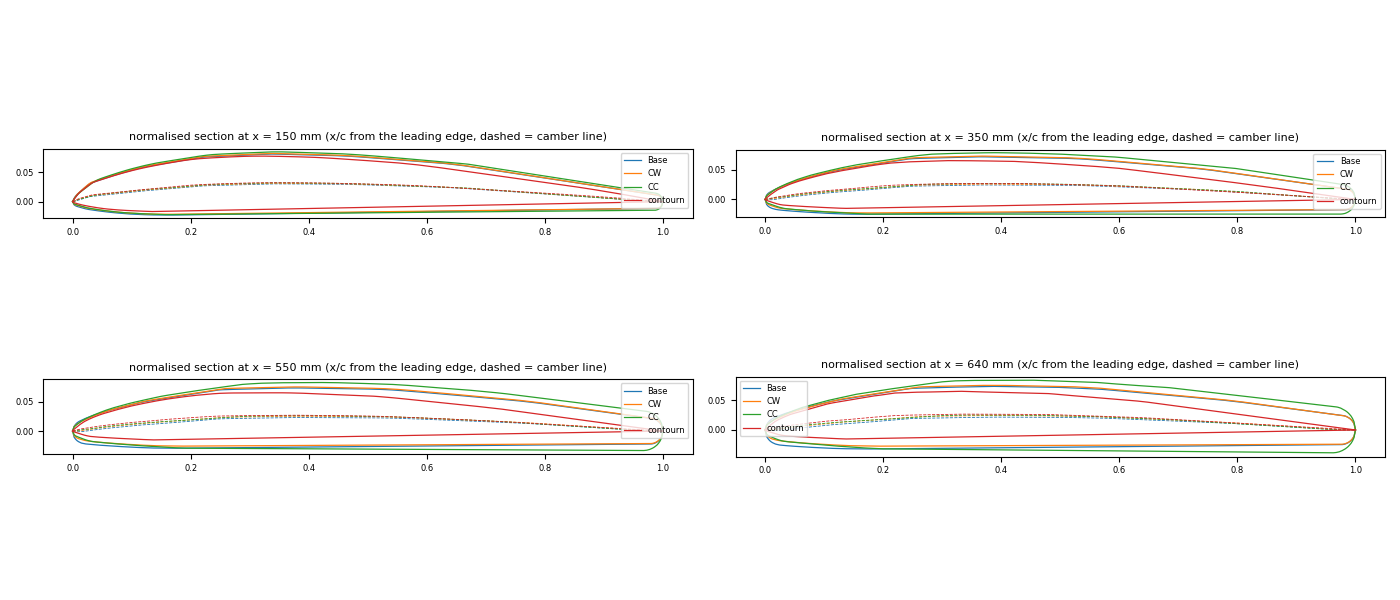
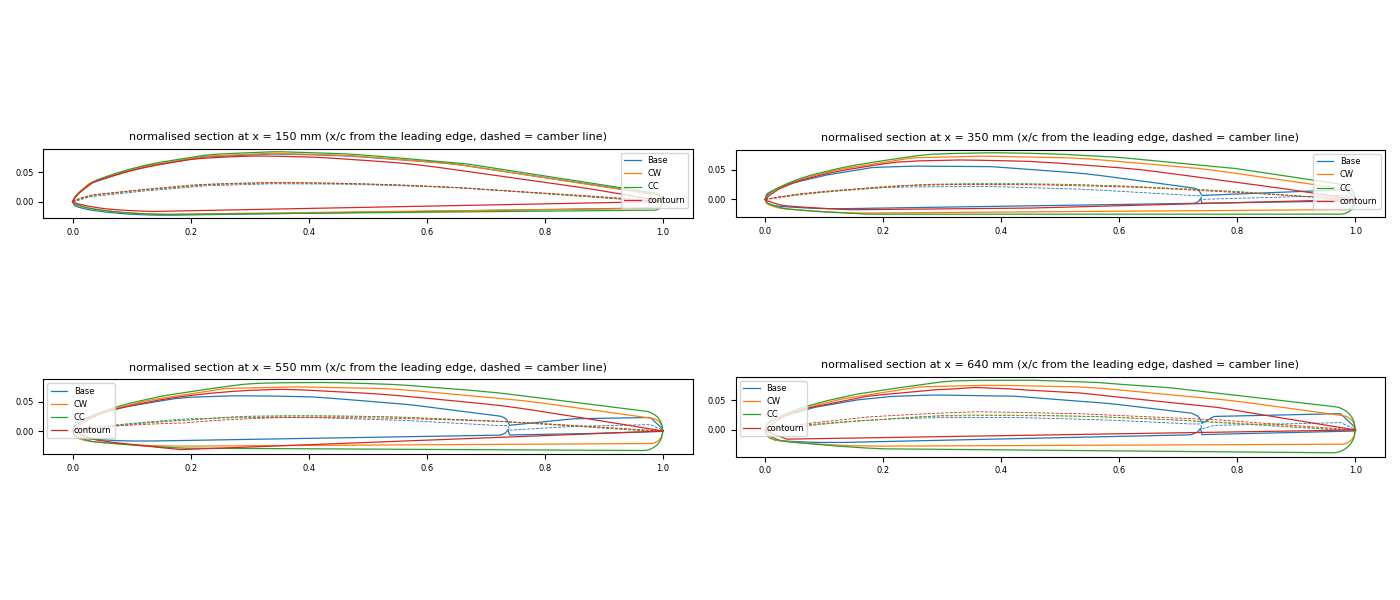
Se añadieron analisis sobre los STP, estan mal, hay que arreglar el aleron

diff --git a/analysis/scripts/stl_geometry.py b/analysis/scripts/stl_geometry.py
@@ -166,6 +166,21 @@ def section_props(loop):
     }
 
 
+def elevon(m, step=2.0):
+    # elevons are 5 mm flat plates aft of the wing TE; a slice shows them as a separate thin loop
+    xs = np.arange(270, m["P"][:, 0].max(), step)
+    chord = np.zeros(len(xs))
+    for i, x in enumerate(xs):
+        loops = [L for L in slice_loops(m["P"], m["F"], 0, x + 0.0137)
+                 if len(L) > 8 and np.ptp(L[:, 1]) > 20 and abs(np.ptp(L[:, 2]) - 5) < 0.3]
+        chord[i] = max((np.ptp(L[:, 1]) for L in loops), default=0)
+    on = xs[chord > 0]
+    if not len(on):
+        return None
+    return {"x0": on.min(), "x1": on.max(), "c_max": chord.max(), "c_min": chord[chord > 0].min(),
+            "S_pair": 2 * chord.sum() * step}
+
+
 def raster(P, F, ia, ib):
     a, b = P[:, ia], P[:, ib]
     a0, b0 = a.min(), b.min()
@@ -341,6 +356,14 @@ def main():
         f = lambda v: f"{np.round(v[0]) + 0.0:.0f} / {v[1]:.0f}"
         print(f"| {MODELS[name]} | {f(p['root'])} | {f(p['kink'])} | {f(p['tip'])} | "
               f"{p['le_sweep_in']:.1f} / {p['le_sweep_out']:.1f} | {p['te_sweep_in']:.1f} / {p['te_sweep_out']:.1f} |")
+
+    print("\n## Elevons (separate 5 mm loop aft of the wing TE; '-' = fused into the wing loop, not separable)\n")
+    print("| Model | Span x from / to [mm] | Chord max / min [mm] | Area, both [dm²] |")
+    print("|---|---|---|---|")
+    for name, m in meshes.items():
+        e = elevon(m)
+        print(f"| {MODELS[name]} | " + ("- | - | - |" if e is None else
+              f"{e['x0']:.0f} / {e['x1']:.0f} | {e['c_max']:.1f} / {e['c_min']:.1f} | {e['S_pair'] / 1e4:.2f} |"))
 
     print("\n## Sections (x = distance from the centreline)\n")
     print("| Model | x [mm] | Chord [mm] | Incidence [deg] | t/c [%] @ x/c | Camber [%] @ x/c | Camber slope near TE | TE thickness [mm] | Points |")

diff --git a/analysis/AERO_REPORT.md b/analysis/AERO_REPORT.md
@@ -2,9 +2,9 @@
 
 | | |
 |---|---|
-| Date | 2026-10-13 |
-| Status | Geometry of the 9 STL variants inspected. **No aerodynamic test has been run yet.** |
-| Next action | Step 0 (requirements) and Step 1 (CAD fixes and exports), done by the designer |
+| Date | 2026-10-13, updated 2026-10-15 |
+| Status | Elevons added and STL + STEP files re-exported (commit `1deeefd`). New geometry checked on 2026-10-15 (§4.6). **No aerodynamic test has been run yet.** |
+| Next action | Designer: finish Step 1. Fix the elevon joint so the STEP solids are valid, re-export the `contourn` and Base STLs, decide on the RT+CW winglet, and give the motor and mass data. Claude: then Step 3. |
 | Re-run the measurements | `python3 analysis/scripts/stl_geometry.py` |
 
 ---
@@ -13,7 +13,9 @@
 
 - **Goal:** compare the aerodynamics of the 9 Inventor models of the Berkirk 3 flying wing, pick one, keep designing it and build it.
 - **The STL files are clean:** binary, in mm, one closed watertight body each, correct normals. They can go straight into OpenFOAM's mesher (snappyHexMesh). The low-order aero tools need STEP files or airfoil + planform data instead (Step 1).
-- **All 9 models share the same planform:** span 1.336 m (1.346 m for ConstantCorners), projected area ≈ 0.32 m², mean aerodynamic chord (MAC) ≈ 276 mm, aspect ratio ≈ 5.6. These values are **without elevons** (see below).
+- **All 9 models share the same planform:**
+  - With elevons (2026-10-15): span 1.336 m (1.346 m for ConstantCorners), projected area ≈ 0.358–0.365 m², mean aerodynamic chord (MAC) ≈ 289–292 mm, aspect ratio ≈ 5.0.
+  - The first inspection, without elevons, gave ≈ 0.32 m², MAC ≈ 276 mm and AR ≈ 5.6.
 - **The variants differ in details that need 3D/viscous analysis:**
   - edge rounding and thickness (ConstantCorners)
   - size of the motor cowl's flat rear face (ReducedTail)
@@ -21,10 +23,13 @@
   - a different, thinner airfoil (contourn)
 
   Vortex-lattice and panel methods will barely separate the variants. Use them for stability and trim, and rank the variants with CFD and physical tests.
-- **Fix these before any test:**
-  1. The **elevons appear to be missing** from all models. The measured area is ~4.5–5 dm² below the original's 36.54 dm², which is about the area of the two W16 elevons.
-  2. ReducedTail+ChangedWings has **87 mm winglets**; all the other models have 95 mm.
-  3. The models **don't share a common reference point** (datum): the bottom is at z = 0, 10 or 12 mm and the nose at y = 323.4–326.0 mm.
+- **Fix these before any test** (status after the 2026-10-15 re-export, details in §4.6):
+  1. ~~The elevons are missing from all models.~~ **Done.** All 9 models now have 5 mm flat-plate elevons fixed at 0°. Wing area is now 35.8–36.5 dm², against the original's 36.54 dm².
+  2. ReducedTail+ChangedWings has **87 mm winglets**; all the other models have 95 mm. **Still open.**
+  3. **Common datum:**
+     - **Mostly done in the STEP files:** root leading edge at y ≈ 199–201 mm, bottom at z = 0.
+     - **Not done in 8 of the 9 STLs** (all except Base).
+  4. **New:** the 8 Siloute STEP solids are **invalid** where the elevon meets the rounded trailing edge, and the `contourn` STL is badly tessellated. Both need fixing before Flow5/CFD.
 - **Biggest aerodynamic risk: pitch trim.**
   - No airfoil has reflex, and washout is ≤ 1°.
   - The original Berkik 3 trims with a fixed elevon reflex (template T1, 166°).
@@ -54,7 +59,7 @@ From `PDFs/plano.pdf` (designed by Julius Perdana, 2021, paper-replika.com):
 | Wing area | 36.54 dm² |
 | Wing loading | 19.2 g/dm² (wing cube loading 3.2) |
 | CG | 26 cm behind the leading edge, "right on the wing break" |
-| Power | Turnigy 2826 2200 kV, 3S 2200 mAh, 5×5×3 pusher prop (5–9 in props possible), 2 × 9 g servos |
+| Power | Turnigy 2826 2200 kV, 3S 2200 mAh, 5×5×3 pusher prop (5–9 in props possible), 2 × 9 g servos. **The redesign uses an A2212/10T 1400 kV motor instead** (decided 2026-10-14). |
 | Structure | 5 mm foamboard/Depron, 3 mm plywood motor mount (M1–M3), 0.3 mm plastic motor cowl (M4) |
 | Controls | Separate elevons (W16, 5 mm foam) set with an "elevon reflex" template (T1, 166°); winglets (W17) |
 
@@ -85,6 +90,8 @@ The 8 "Siloute" models cover every combination of three changes (a 2×2×2 facto
 ---
 
 ## 4. Inspection results
+
+> **§4.1–4.5 describe the first inspection (2026-10-13, STLs without elevons).** Their tables are kept for reference. The re-export with elevons is checked in **§4.6**, which supersedes them where they differ.
 
 ### 4.1 File format and mesh health
 
@@ -216,6 +223,85 @@ Section properties at four spanwise stations (x = distance from the centreline).
    - Put all models on the same origin.
 5. **Coarse tessellation for CFD:** re-export finer (Step 1).
 6. **Packaging check:** the RT motor face (≈ 41 × 40 mm) is close to the size of a 28 mm-class motor (≈ 35 mm bell) plus its mount. Check the fit and the cooling airflow before choosing RT.
+   - The build motor is now an **A2212** (≈ 28 mm diameter, ≈ 27–28 mm can length, ≈ 47–50 g with the cross mount), so the check still applies.
+
+### 4.6 Re-export with elevons (commit `1deeefd`, checked 2026-10-15)
+
+The STLs were measured with `analysis/scripts/stl_geometry.py`, which now also prints an elevon table. The STEP files in `STP/` were opened with FreeCAD 1.1 (`freecad.cmd`) to check validity, take tight bounding boxes and slice them.
+
+**What changed**
+
+- **Elevons are in every model:**
+  - Shape: a 5 mm flat plate, flush with the bottom surface, with a bevelled trailing edge on top.
+  - Position: butted against the wing trailing edge with no gap, along the outer panel from the kink (x ≈ 290–296 mm) to the tip (x ≈ 655–660 mm).
+  - Size: chord ≈ 72 mm at the root and ≈ 42 mm at the tip; area ≈ 2.08 dm² each, **4.15 dm² for the pair**.
+  - The pair matches the ~4.5–5 dm² that was missing (§4.5). The earlier estimate from the plan pages was ≈ 2.3 dm² each.
+- **The airfoils, winglets and cowl are unchanged.**
+  - In the 7 Siloute models other than Base, the wing sections ahead of the elevon (x = 150–640 mm) match the 2026-10-13 values to within 0.1 mm.
+  - In Base they differ slightly (incidence ±0.1°), only because of its coarser re-export.
+
+**New reference values (with elevons, from the STLs)**
+
+| Model | S [dm²] | b [mm] | AR | MAC [mm] | MAC at y [mm] | MAC LE / 25% MAC behind the nose [mm] | Wetted [dm²] | Volume [L] | Winglet h [mm] |
+|---|---|---|---|---|---|---|---|---|---|
+| Base | 35.76 | 1336 | 4.99 | 289.2 | 280 | 194 / 267 | 78.44 | 6.96 | 95.2 |
+| CW | 35.93 | 1336 | 4.97 | 290.2 | 281 | 194 / 267 | 78.15 | 6.97 | 95.2 |
+| RT | 35.78 | 1336 | 4.99 | 289.4 | 280 | 194 / 266 | 78.14 | 6.80 | 95.2 |
+| RT+CW | 35.78 | 1336 | 4.99 | 289.4 | 280 | 194 / 266 | 77.31 | 6.78 | **87.1** |
+| CC | 36.49 | 1346 | 4.96 | 292.3 | 283 | 192 / 265 | 80.01 | 7.63 | 95.2 |
+| CC+CW | 36.50 | 1346 | 4.96 | 292.4 | 283 | 192 / 265 | 79.52 | 7.62 | 95.3 |
+| CC+RT | 36.49 | 1346 | 4.96 | 292.3 | 283 | 192 / 265 | 79.66 | 7.47 | 95.2 |
+| CC+RT+CW | 36.50 | 1346 | 4.96 | 292.4 | 283 | 192 / 265 | 79.17 | 7.46 | 95.3 |
+| contourn | 36.08 | 1336 | 4.95 | 291.0 | 281 | 194 / 267 | 78.55 | 5.72* | 95.3 |
+
+\* The `contourn` STL is faulty (see below). Its volume from the STEP file is 5.91 L.
+
+- Chord including the elevon: ≈ 229 mm at the kink and ≈ 160 mm at the tip (was 211 / 121 mm).
+- The original's flight-tested CG (260 mm behind the leading edge) is now **≈ 7 mm ahead of the 25% MAC point** (≈ 267 mm). That is plausible for a swept wing, whose neutral point lies aft of the 25% MAC. Step 3 will give the real margin.
+- *Section tables:* the script measures the largest closed loop at each station. In the Siloute models and `contourn` that is the wing without the elevon, so §4.4 is still valid for the wing airfoil. In Base the elevon is fused into the same loop, so its outboard rows include the elevon, which makes t/c ≈ 7% and the trailing edge ≈ 5 mm thick.
+
+**Mesh health of the new STLs**
+
+| Model | Triangles | Non-manifold edges | Inconsistent orientation | Degenerate | Facet angle p90 / p99 [deg] | Comment |
+|---|---|---|---|---|---|---|
+| Base | **5090** (was 21836) | 8 | 20 | 8 | 23.0 / **167.9** | Re-exported much coarser, with folded facets. **Re-export.** |
+| CW, RT, RT+CW | 21–23 k | 0 | 0 | 0 | ≈ 10 / 26–32 | OK |
+| CC, CC+CW, CC+RT, CC+RT+CW | 35–37 k | 13 | 26 | 0 | 8.9 / 15–16 | Elevon joined along a line, not a face |
+| contourn | 9154 | 4 | 8 | 0 | 11.2 / 90.0 | **Broken outer-panel tessellation.** **Re-export.** |
+
+- **`contourn` STL:** from the kink outboard, slices show long triangles that run from the trailing edge back to the leading edge, plus thin internal sheets. The cause is the export, not the model: `STP/contourn.stp` is a valid solid and slices cleanly, with chord ≈ 136 mm + 46 mm elevon at x = 600 mm, the same as the other models.
+
+**STEP files (`STP/`, AP214 from Inventor 2026, one solid each)**
+
+| File | Valid in OpenCASCADE | Error | Valid after `fix()` |
+|---|---|---|---|
+| Base, CW, RT, RT+CW | no | self-intersecting wire, unorientable shape | yes |
+| CC, CC+CW, CC+RT, CC+RT+CW | no | unorientable shape | **no** |
+| contourn | **yes** | – | – |
+
+- **Cause:** the wing trailing edge is rounded (6–10 mm), and the flat front face of the 5 mm elevon touches it **only along a line**. Joining the two gives a non-manifold solid. `contourn` is valid because its trailing edge is cut flat where the elevon attaches.
+- **Fix in Inventor:** either of these works.
+  - (a) Extend the elevon 2–3 mm forward into the wing, or give it a front face that matches the rounded trailing edge, then *Combine → Join* so that the two share a face with real area.
+  - (b) Keep the elevon as a separate solid body in a multi-body part with a small gap (≈ 0.5 mm). Both are exported, and the CFD simply sees two bodies.
+
+  Option (a) matches the "part of the wing, fixed at 0°, no gap" decision of 2026-10-14.
+- **Flow5 and snappyHexMesh need valid, watertight geometry**, so fix this before Step 3/4.
+
+**Common datum**
+
+| | Origin (front of the root LE) | Bottom | Tail (centre TE) | Spanwise centre |
+|---|---|---|---|---|
+| STEP files | y = 199.2–200.6 mm | z = 0 (`contourn` −6.5) | y = −448.9 … −449.8 (RT+CW −454.2, winglet) | x = 0, except **CC models x = −5 mm** (span −678 … +668) |
+| STLs | Base matches its STEP; the other 8 still have the old origins (nose y = 323.4–326.0, bottom z = 0 / 10 / 12) | | | |
+
+- The STLs look like they were exported before the origin was moved. The STEP files are close to a common datum, but **not the agreed one** (root LE = (0, 0, 0), X aft, Z up): the axes are still X = span, Y = forward, Z = up.
+- **The CC models are shifted 5 mm sideways in the STEP files.** Their STLs are symmetric (±673 mm), so this is an offset of the origin, not of the geometry.
+- This doesn't block the work: Claude can align all files by script (translate so the root LE is at the origin, then rotate to CFD axes). The STLs and STEPs of each model must match, though, so re-export the STLs after setting the origin.
+
+**Still open from §4.5**
+
+- **RT+CW winglets are still 87 mm** (and their tip extends ≈ 5 mm further aft in the STEP). The other 7 Siloute models have 95 mm.
+- **The tessellation is still coarse for CFD.** No `STL/cfd/` export yet; see Step 1.
 
 ---
 
@@ -229,6 +315,9 @@ Tick the boxes as steps are completed and update the Status line at the top.
 - [ ] Mission: cruise speed, endurance or range, stall speed, maximum speed, payload.
 - [ ] Flying site altitude and temperature, which set the air density ρ and kinematic viscosity ν.
 - [ ] Motor and propeller (original: 2826 2200 kV, 5×5×3 pusher).
+  - Motor chosen 2026-10-14: **A2212/10T 1400 kV**.
+  - Still needed: motor mass, prop D × pitch, motor position (x behind the leading edge, z relative to the wing), battery/ESC/servo masses and cell count. These are used to check thrust-to-weight against ≈ 700 g.
+  - The motor and prop are **not modelled in CAD** for the selection: they are the same in every variant. Only a trailing-edge motor cutout belongs in the geometry, if the real wing has one.
 - [ ] Comparison metrics and their weights for the final decision (Step 5).
 
 Quick numbers using the original's 700 g and S ≈ 0.365 m² (with elevons). CLmax = 0.8 is an assumption.
@@ -244,11 +333,20 @@ Formulas: CL = 2W / (ρ V² S); Re = V c / ν; V_stall = √(2W / (ρ S CLmax)).
 
 ### Step 1: Fix the CAD models and export analysis files (designer, Inventor)
 
-- [ ] **Winglets / ChangedWings:** confirm or fix the RT+CW winglet height (87 vs 95 mm), so each change is identical in every combination.
-- [ ] **Elevons:** add them to all 9 models (W16, along the outer-panel trailing edge from the kink to the tip).
-  - Make them separate bodies with a hinge axis, so they can be exported at different deflections: 0°, the original reflex (template T1), and later the trim angle from Step 3.
-- [ ] **Common datum:** use the same origin in all models, e.g. the centre of the nose on the bottom plane = (0, 0, 0), keeping the current axes. Fallback: Claude can align them by script.
-- [ ] **STEP export** (AP214 or AP242) of every model into a new folder `STEP/`. `.gitattributes` already routes `.step`/`.stp` to Git LFS.
+Decisions of 2026-10-14 (selection phase only):
+- The elevons are part of the wing, **fixed at 0°**, with no gap, hinge, mechanism or deflection parameter, and the same W16 chord and span in all 9 models.
+- Deflections and trim reflex are handled in AVL/XFLR5/Flow5 through the hinge-line definition, not in CAD. Optionally, export one reflexed STL of the winner for a CFD re-check.
+- After the selection: a full `.iam` assembly with the wing plus a shared equipment sub-assembly (real masses) for CG, inertia and clearance. The elevon mechanism is designed then.
+
+Checklist:
+- [ ] **Winglets / ChangedWings:** confirm or fix the RT+CW winglet height (87 vs 95 mm), so each change is identical in every combination. *Still 87 mm on 2026-10-15.*
+- [x] **Elevons added to all 9 models** (2026-10-15, commit `1deeefd`): 5 mm plate, ≈ 72 → 42 mm chord, kink to tip, 4.15 dm² per pair (§4.6).
+  - [ ] **Fix the joint:** the flat elevon touches the rounded trailing edge only along a line, so the STEP solid is invalid. Overlap 2–3 mm and *Join* (or match the trailing-edge shape), then re-export (§4.6).
+- [ ] **Common datum:** root LE = (0, 0, 0) in all models.
+  - *2026-10-15:* the STEP files are nearly common (root LE at y ≈ 199–201 mm, bottom z = 0, CC models offset 5 mm sideways), but the STLs (except Base) still use the old origins.
+  - Re-export the STLs after setting the origin, so each STL matches its STEP. Fallback: Claude aligns them by script.
+- [x] **STEP export** (AP214) of every model into `STP/` (2026-10-15). `.gitattributes` routes `.stp` to Git LFS. *Re-export after the elevon joint fix.*
+- [ ] **Re-export the `contourn` STL** (broken outer-panel tessellation; the STEP file is fine) and the **Base STL** (only 5 k triangles, with folded facets).
 - [ ] **Finer STL export for CFD** into `STL/cfd/`:
   - Binary format, units mm or m.
   - In the STL export *Options*, choose Resolution = Custom, with Normal Deviation ≈ 2–5°, and Surface Deviation and Max Edge Length small enough that triangles are ≲ 5–10 mm.
@@ -392,18 +490,22 @@ Run matrix:
 
 ## 6. Open questions for the designer
 
-1. Do the STLs include the elevons? The evidence (§4.5) says no.
+1. ~~Do the STLs include the elevons?~~ Answered: they were missing; added on 2026-10-15.
 2. Is `contourn` your model of the original Berkik 3? Is it a candidate or only a reference?
-3. Is the 87 mm RT+CW winglet intended? What exactly is "ChangedWings" meant to change?
-4. Which airfoil(s) are in the Inventor sketches (name or coordinates)? Is the 6–10 mm rounded trailing edge intentional, i.e. a hinge line?
-5. What are the Step 0 targets: weight, speeds, endurance, payload, flying altitude?
-6. Is there access to a wind tunnel?
+3. Is the 87 mm RT+CW winglet intended? What exactly is "ChangedWings" meant to change? (Still 87 mm after the 2026-10-15 re-export.)
+4. Is the 5 mm sideways offset of the CC models in the STEP files intentional?
+5. Motor/prop/mass data for the A2212/10T setup (see Step 0).
+6. Which airfoil(s) are in the Inventor sketches (name or coordinates)? Is the 6–10 mm rounded trailing edge intentional, i.e. a hinge line?
+7. What are the Step 0 targets: weight, speeds, endurance, payload, flying altitude?
+8. Is there access to a wind tunnel?
 
 ---
 
 ## 7. How to resume this work
 
-- **Re-run the measurements:** `python3 analysis/scripts/stl_geometry.py`. It prints every table above in Markdown and rewrites `analysis/figures/`. It needs numpy, matplotlib and Pillow, which are already installed.
+- **Re-run the measurements:** `python3 analysis/scripts/stl_geometry.py`. It prints every table above in Markdown, including the elevon table, and rewrites `analysis/figures/`. It needs numpy, matplotlib and Pillow, which are already installed.
+  - Since 2026-10-15 the figures show the models with elevons. The `contourn` section plots are wrong until its STL is re-exported.
+- **Check the STEP files:** they are read with FreeCAD's Python (`freecad.cmd script.py`, using `Part.Shape().read()`, `isValid()`, `optimalBoundingBox()` and `slice()`). The snap can't read `/tmp`, so run the script from `~/snap/freecad/common/`.
 - **Resume the Claude Code session:** `claude --continue` reopens the latest conversation in this folder; `claude --resume` lets you pick one. Claude's project memory also points to this report.
 - **Track progress:** tick the checkboxes and update the Status line as steps are completed.
 
